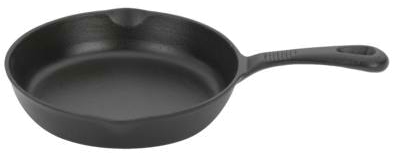
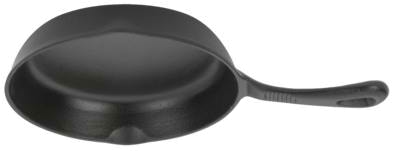
Add fry pan graphics.

diff --git a/js/fry_pan.js b/js/fry_pan.js
@@ -42,6 +42,11 @@ FryPan.prototype.constructor = Nest;
  * @type {Box2D.Common.Math.b2Vec2}
  */
 FryPan.FRY_PAN_ORIGIN = new Box2D.Common.Math.b2Vec2(0.45, 0.70);
+FryPan.FRY_PAN_IMAGE_ORIGIN = new Box2D.Common.Math.b2Vec2(0.16, 0.65);
+// The frypan image is 395 x 153 points. Size the final image so it is 60cm wide and
+// preserves aspect ratio.
+// TODO(daves): Figure out how to get the image dims from the Image object.
+FryPan.FRY_PAN_IMAGE_SIZE = new Box2D.Common.Math.b2Vec2(0.6, 0.6 * (153.0 / 395.0));
 
 /**
  * Default frying time, measured in seconds.
@@ -200,7 +205,11 @@ FryPan.prototype.addFixturesToBody = function(simulation, body) {
  * @override
  */
 FryPan.prototype.loadView = function(simulation) {
-  this.view = new PolyView();
+  var frypanView = new ImageView();
+  frypanView.setOrigin(FryPan.FRY_PAN_IMAGE_ORIGIN);
+  frypanView.setSize(FryPan.FRY_PAN_IMAGE_SIZE);
+  frypanView.loadImage("./img/frypan.png");
+  this.view = frypanView;
 }
 
 /**

diff --git a/js/chicken.js b/js/chicken.js
@@ -304,6 +304,11 @@ Chicken.prototype._layEgg = function() {
   }
 }
 
+/**
+ * Override addToSimulation to load the view. The chicken is a special case because it
+ * has no collision/physics geometry, it only draws an image.
+ * @Override
+ */
 Chicken.prototype.addToSimulation = function(simulation) {
   this.loadView();
 }
